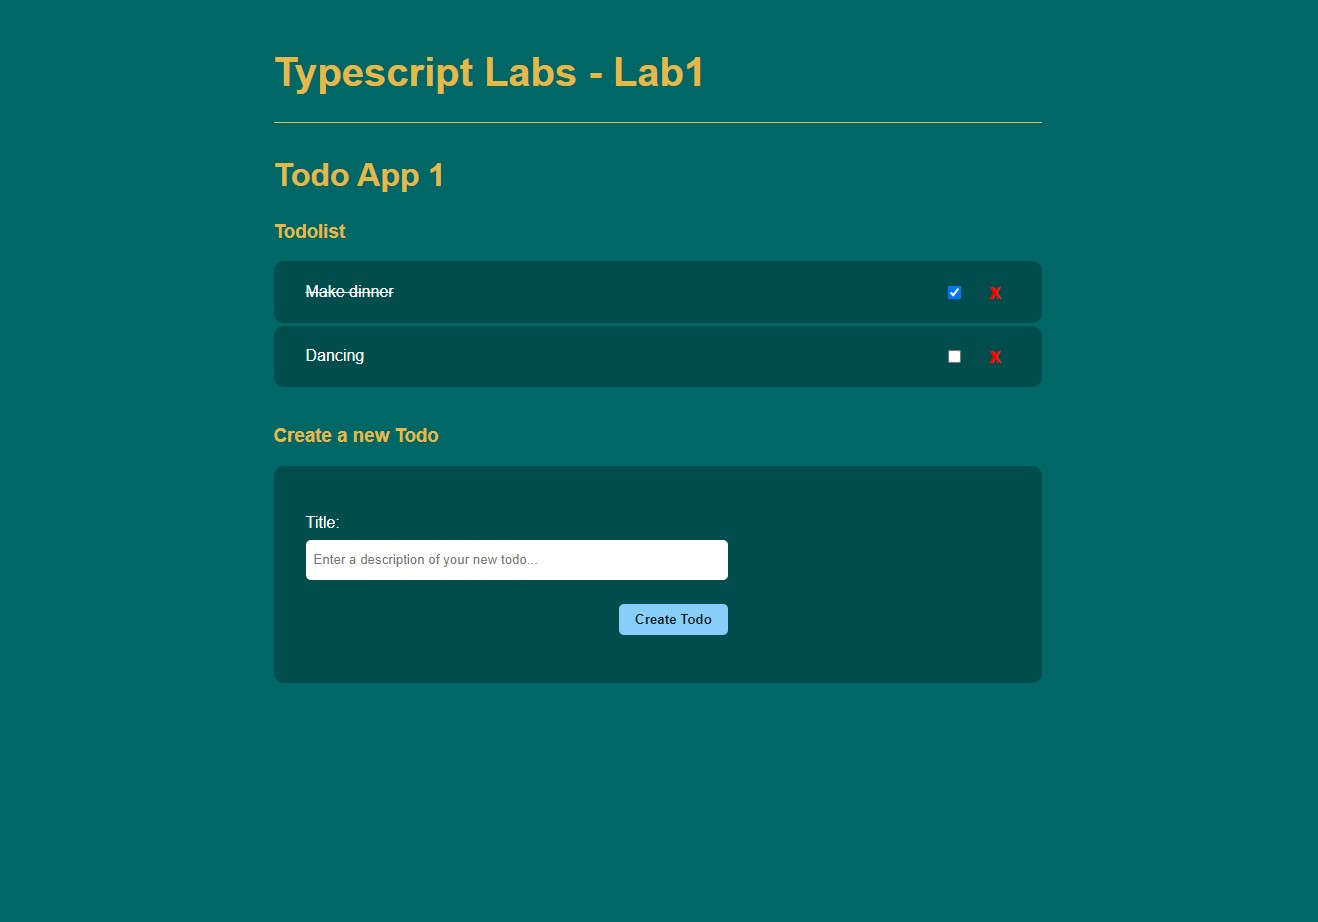
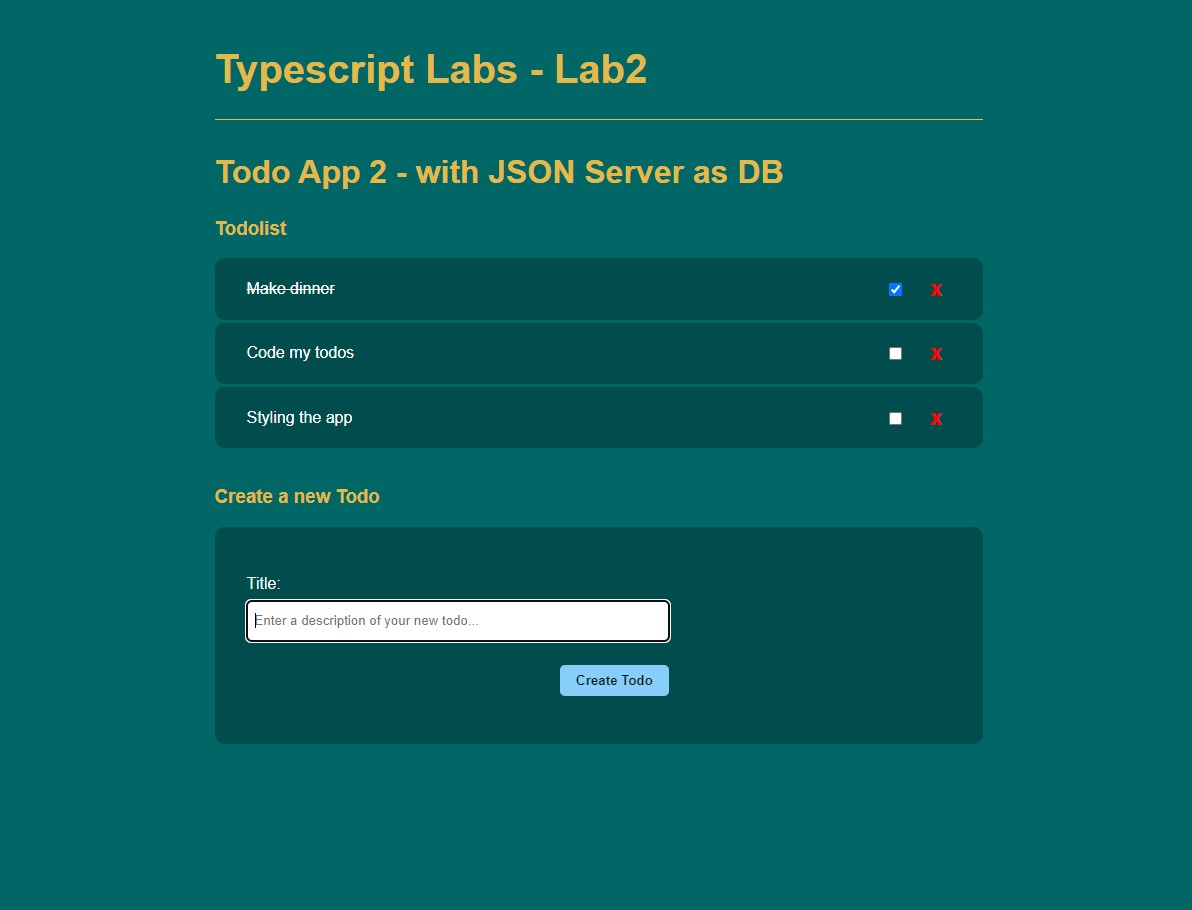
todos with json server update

Changed region(s): [[0.1552, 0.2462, 0.8381, 0.8308], [0.1862, 0.0615, 0.807, 0.2154]]

diff --git a/lab2/src/api.ts b/lab2/src/api.ts
@@ -4,40 +4,102 @@ import { CreateTodoData, UpdateTodoData } from "./todo_types";
 
 const baseUrl = import.meta.env.VITE_API_BASEURL || "http://localhost:3000";
 
-//fetch - get
+// const handleError = (err: unknown) => {
+//   if (err instanceof AxiosError) {
+//     alert("Network error, response code was: " + err.message);
+//   } else if (err instanceof Error) {
+//     alert("Something went wrong: " + err.message);
+//   } else {
+//     alert("Something went wrong.");
+//   }
+// };
+
+// export const getTodosFetch = async () => {
+//   try {
+//     const response = await fetch(baseUrl + "/todos");
+//     if (!response.ok) {
+//       throw new Error(
+//         "Unable to Fetch Data, Please check URL or Network connectivity"
+//       );
+//     }
+//     const data: Todo[] = await response.json(); //- TYPE
+//     //   console.log("getTodosFetch :", data);
+//     return data;
+//   } catch (error) {
+//     console.error("There was a problem with the Fetch operation:", error);
+//   }
+// };
+
+//fetch - get all
 export const getTodosFetch = async () => {
   const response = await fetch(baseUrl + "/todos");
   if (!response.ok) {
-    throw new Error("Response was not OK!");
+    throw new Error(
+      "Unable to Fetch Data, Please check URL or Network connectivity"
+    );
   }
-  //typa här
-  const data: Todo[] = await response.json();
-  console.log("getTodosFetch:", data);
-  //varför type assertion här??
-  //   return data as Todo[];
+  const data: Todo[] = await response.json(); //- TYPE
+  //   console.log("getTodosFetch :", data);
   return data;
-  //   return (await response.json()) as Todo[];
 };
+
+//fetch - create new
+//- TYPE
+export const createTodosFetch = async (newItem: CreateTodoData) => {
+  const response = await fetch(baseUrl + "/todos", {
+    method: "POST",
+    headers: { "Content-Type": "application/json" },
+    body: JSON.stringify(newItem),
+  });
+  if (!response.ok) {
+    throw new Error(
+      "Unable to Fetch Data, Please check URL or Network connectivity"
+    );
+  }
+  const data: Todo[] = await response.json(); //- TYPE
+  // console.log("createTodosFetch :", data);
+  return data;
+};
+
+//fetch - update item
+//- TYPE
+export const updateTodoFetch = async (id: number, itemData: UpdateTodoData) => {
+  const response = await fetch(baseUrl + "/todos/" + id, {
+    method: "PATCH",
+    headers: { "Content-Type": "application/json" },
+    body: JSON.stringify(itemData),
+  });
+  if (!response.ok) {
+    throw new Error(
+      "Unable to Fetch Data, Please check URL or Network connectivity"
+    );
+  }
+  const data: Todo[] = await response.json(); //- TYPE
+  // console.log("updateTodoFetch :", data);
+  return data;
+};
+
+//fetch - delete item
+export const deleteTodoFetch = async (id: number) => {
+  const response = await fetch(baseUrl + "/todos/" + id, {
+    method: "DELETE",
+  });
+  if (!response.ok) {
+    throw new Error(
+      "Unable to Fetch Data, Please check URL or Network connectivity"
+    );
+  }
+  const data: Todo[] = await response.json(); //- TYPE
+  // console.log("deleteTodoFetch :", data);
+  return data;
+};
+
+//AXIOS
 //axios- get
 export const getTodos = async () => {
   const response = await axios.get<Todo[]>(baseUrl + "/todos");
   console.log("axios_data:", response.data);
   return response.data;
-};
-
-//fetch - create
-export const createTodoFetch = async (item: CreateTodoData) => {
-  const response = await fetch(baseUrl + "/todos", {
-    method: "POST",
-    headers: { "Content-Type": "application/json" },
-    body: JSON.stringify(item),
-  });
-  if (!response.ok) {
-    throw Error("Fetch data error: ");
-  }
-  const data: Todo[] = await response.json();
-  console.log("createTodoFetch:", data);
-  return data;
 };
 
 //axios- create
@@ -46,40 +108,11 @@ export const createTodo = async (item: CreateTodoData) => {
   return response.data;
 };
 
-//fetch - update
-export const updateTodoFetch = async (id: number, itemData: UpdateTodoData) => {
-  const response = await fetch(baseUrl + "/todos/" + id, {
-    method: "PATCH",
-    headers: { "Content-Type": "application/json" },
-    body: JSON.stringify(itemData),
-  });
-  if (!response.ok) {
-    throw Error("Fetch data error: ");
-  }
-  const data: Todo[] = await response.json();
-  console.log("updateTodoFetch:", data);
-  return data;
-};
-
 //axios- update
 export const updateTodo = async (id: number, itemData: UpdateTodoData) => {
   const response = await axios.patch<Todo>(baseUrl + "/todos/" + id, itemData);
   return response.data;
 };
-
-//fetch - delete
-export const deleteTodoFetch = async (id: number) => {
-  const response = await fetch(baseUrl + "/todos/" + id, {
-    method: "DELETE",
-  });
-  if (!response.ok) {
-    throw Error("Fetch data error: ");
-  }
-  const data: Todo[] = await response.json();
-  console.log("deleteTodoFetch:", data);
-  return data;
-};
-
 //axios- delete
 export const deleteTodo = async (id: number) => {
   const response = await axios.delete<Todo>(baseUrl + "/todos/" + id);

diff --git a/lab2/src/main.ts b/lab2/src/main.ts
@@ -1,35 +1,46 @@
 import "./styles.scss";
-import { Todo } from "./todo_types";
+import { Todo, CreateTodoData } from "./todo_types";
 import {
   getTodosFetch,
-  createTodoFetch,
-  getTodos,
-  createTodo,
+  createTodosFetch,
   updateTodoFetch,
-  updateTodo,
   deleteTodoFetch,
-  deleteTodo,
 } from "./api";
-import { CreateTodoData } from "./todo_types";
 
 ///////////Todolist 1
 //find elements
 const todoListEl = document.querySelector<HTMLUListElement>("#todo-list")!;
 const newTodoFormEl = document.querySelector<HTMLFormElement>("#new-todo-form");
 
-//local variable
+//local global variable - TYPE
 let todos: Todo[] = [];
 
-//need to have async-await, so new function
-const getTodosAndRender = async () => {
-  //get todos from serer
-  todos = await getTodosFetch();
+// const handleError = (err: unknown) => {
+//   if (err instanceof AxiosError) {
+//     alert("Network error, response code was: " + err.message);
+//   } else if (err instanceof Error) {
+//     alert("Something went wrong: " + err.message);
+//   } else {
+//     alert("Something went wrong.");
+//   }
+// };
 
-  //render UI
-  renderTodos();
+//get todos - need to have async-await all the way
+const getTodosAndRender = async () => {
+  try {
+    todos = await getTodosFetch();
+    //render UI
+    renderTodos();
+  } catch (error) {
+    console.error("Some Error Occurred:", error);
+  }
+
+  //   todos = await getTodosFetch();
+  //   //render UI
+  //   renderTodos();
 };
 
-//global scope
+//global scope for toggleCompleted and deleteTodo called from template literal
 const _global = window /* browser */ as any;
 
 //render UI list
@@ -37,14 +48,12 @@ const renderTodos = () => {
   todoListEl.innerHTML = todos
     .map((todo) => {
       //   console.log("renderTodos-todo:", todo);
-      return `<li id="listItem" class="list-item">
-        <span  class="${todo.completed ? "completed" : ""}"> ${
-        todo.title
-      }</span>
+      return `<li class="list-item">
+        <span class="${todo.completed ? "completed" : ""}"> ${todo.title}</span>
         <div>
-           <input type="checkbox" class="toggle" id="${todo.id}" ${
-        todo.completed ? "checked" : ""
-      } onchange="toggleCompleted(${todo.id})"/> 
+           <input type="checkbox" ${todo.completed ? "checked" : ""}
+            onchange="toggleCompleted(${todo.id})"/>
+       
         <button class="delete-todo" onclick="deleteTodo(${todo.id})">x</button>
         </div>
     </li>`;
@@ -52,68 +61,46 @@ const renderTodos = () => {
     .join("");
 };
 
-//submit form
-//create new todo, POST and rerender
+//submit form, create new todo, POST to db and rerender
 newTodoFormEl?.addEventListener("submit", async (e) => {
   e.preventDefault();
 
   const newTodoInputEl =
-    document.querySelector<HTMLFormElement>("#new-todo-input");
+    document.querySelector<HTMLFormElement>("#new-todo-input")!;
 
-  //new todo
+  //new todo - TYPE
   const newTodo: CreateTodoData = {
     title: newTodoInputEl?.value,
     completed: false,
   };
 
-  //UTAN DB
-  //todos.push(newTodo);
-
-  // POST new todo to API
-  await createTodoFetch(newTodo);
-
-  if (newTodoInputEl) {
-    newTodoInputEl.value = "";
-  }
-  //render UI list
+  createTodosFetch(newTodo);
   getTodosAndRender();
+  newTodoInputEl.value = "";
 });
 
-//toggleCompleted
+//toggle comleted item
 _global.toggleCompleted = async (id: number) => {
-  //UTAN DB
-  //map/if -> search for item to modify
-  // const updatedTodos = todos.map((todo) => {
-  //   if (todo.id === id) {
-  //     return { ...todo, completed: !todo.completed };
-  //   } else return todo;
-  // });
-  // todos = updatedTodos;
-  // renderTodos();
+  //already reads completed from data to UI
+  console.log("toggleCompleted", todos);
+  //need to set completed to data from UI
 
-  //search for item to modify
-  const todo = todos.find((todo) => todo.id === id);
-  if (!todo) {
+  //find item
+  const updatedTodo = todos.find((todo) => todo.id === id);
+  //check
+  if (!updatedTodo) {
     return;
   }
-  await updateTodoFetch(id, { completed: !todo.completed });
+  updateTodoFetch(id, { completed: !updatedTodo.completed });
   //render UI list
   getTodosAndRender();
 };
 
-//delete
+//delete item
 _global.deleteTodo = async (id: number) => {
-  //UTAN DB
-  //   const updatedTodos = todos.filter((todo) => {
-  //     return todo.id != id;
-  //   });
-  //   todos = updatedTodos;
-  //   renderTodos();
-
-  await deleteTodoFetch(id);
-  //render UI list
+  deleteTodoFetch(id);
   getTodosAndRender();
 };
 
-//initial render UI list
+//initial get and render
 getTodosAndRender();

diff --git a/lab2/index.html b/lab2/index.html
@@ -4,16 +4,16 @@
     <meta charset="UTF-8" />
     <link rel="icon" type="image/svg+xml" href="/vite.svg" />
     <meta name="viewport" content="width=device-width, initial-scale=1.0" />
-    <title>Typescript Labs - lab1</title>
+    <title>Typescript Labs - lab2</title>
   </head>
   <body>
     <header>
-      <h1>Typescript Labs - Lab1</h1>
+      <h1>Typescript Labs - Lab2</h1>
     </header>
 
     <main>
       <section>
-        <h2 class="site-heading">Todo App 1</h2>
+        <h2 class="site-heading">Todo App 2 - with JSON Server as DB</h2>
 
         <h3>Todolist</h3>
         <ul class="todo-list" id="todo-list"></ul>
